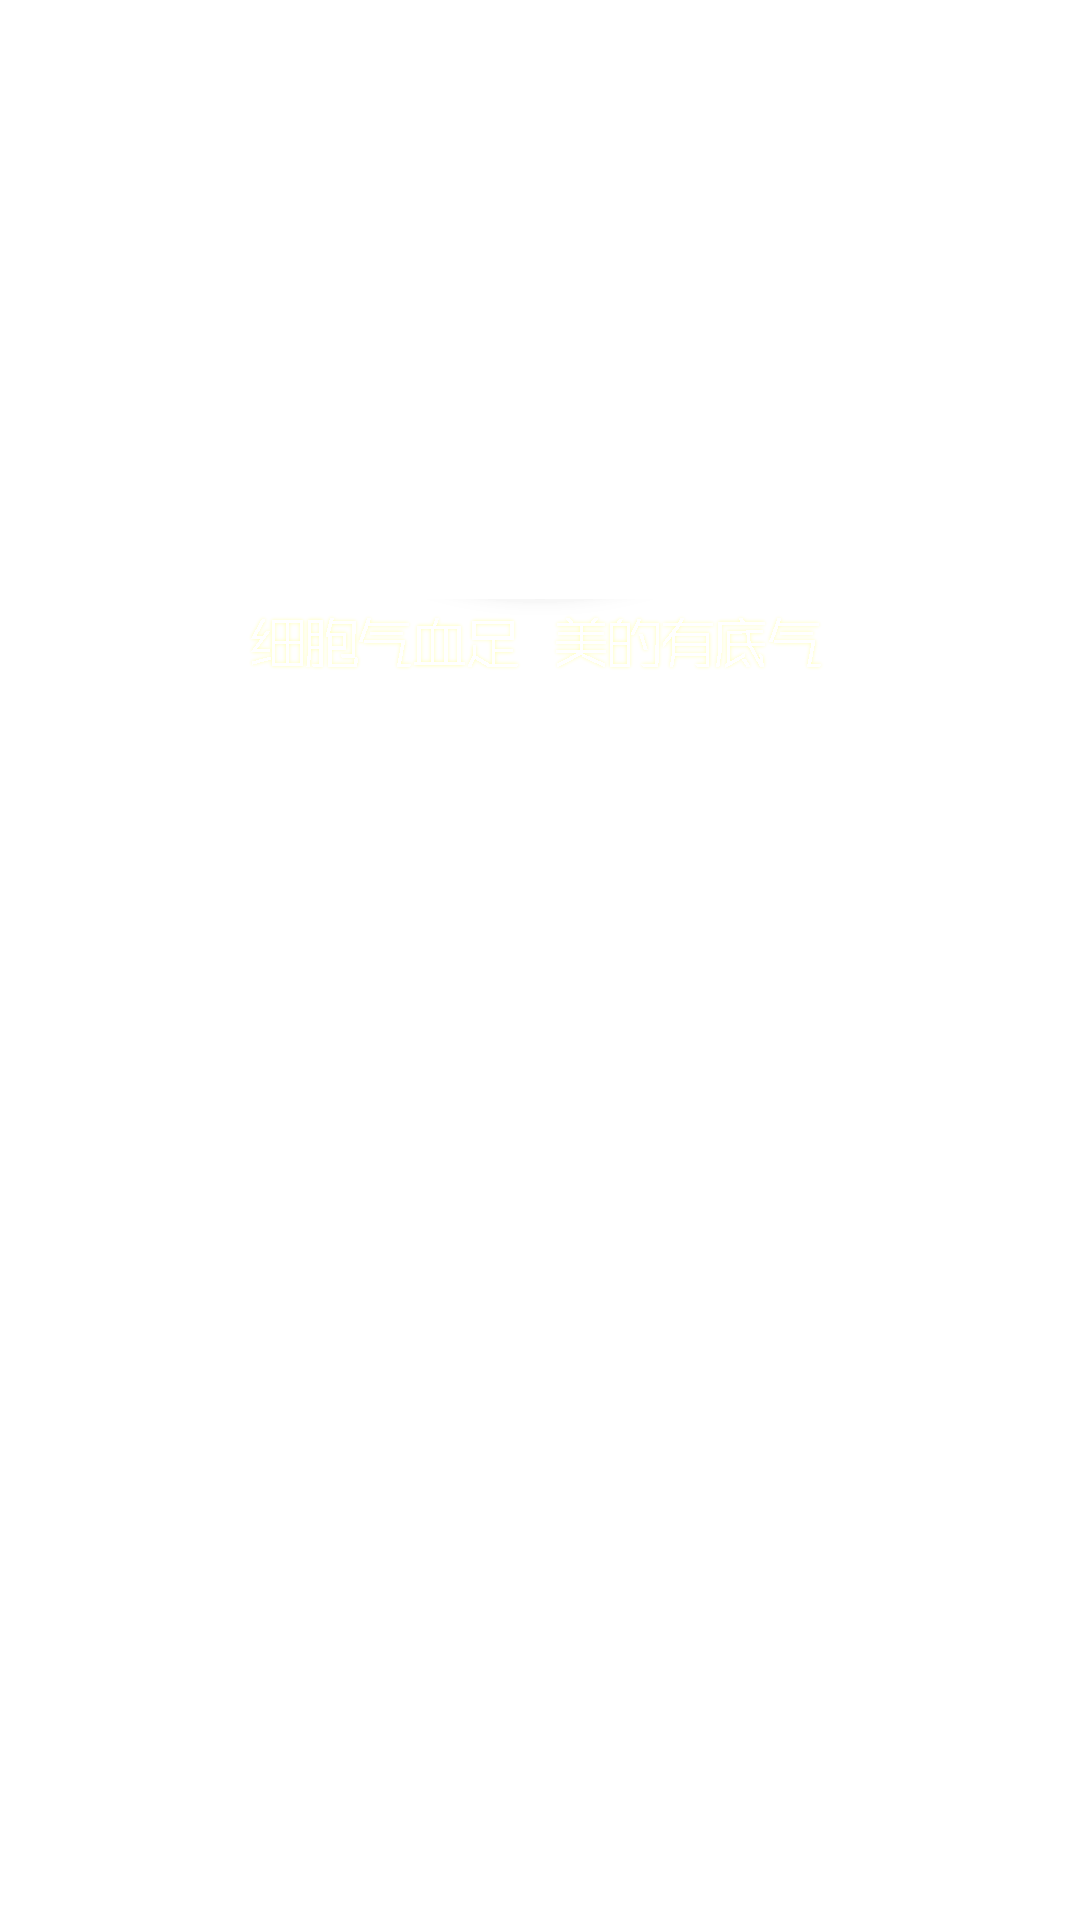
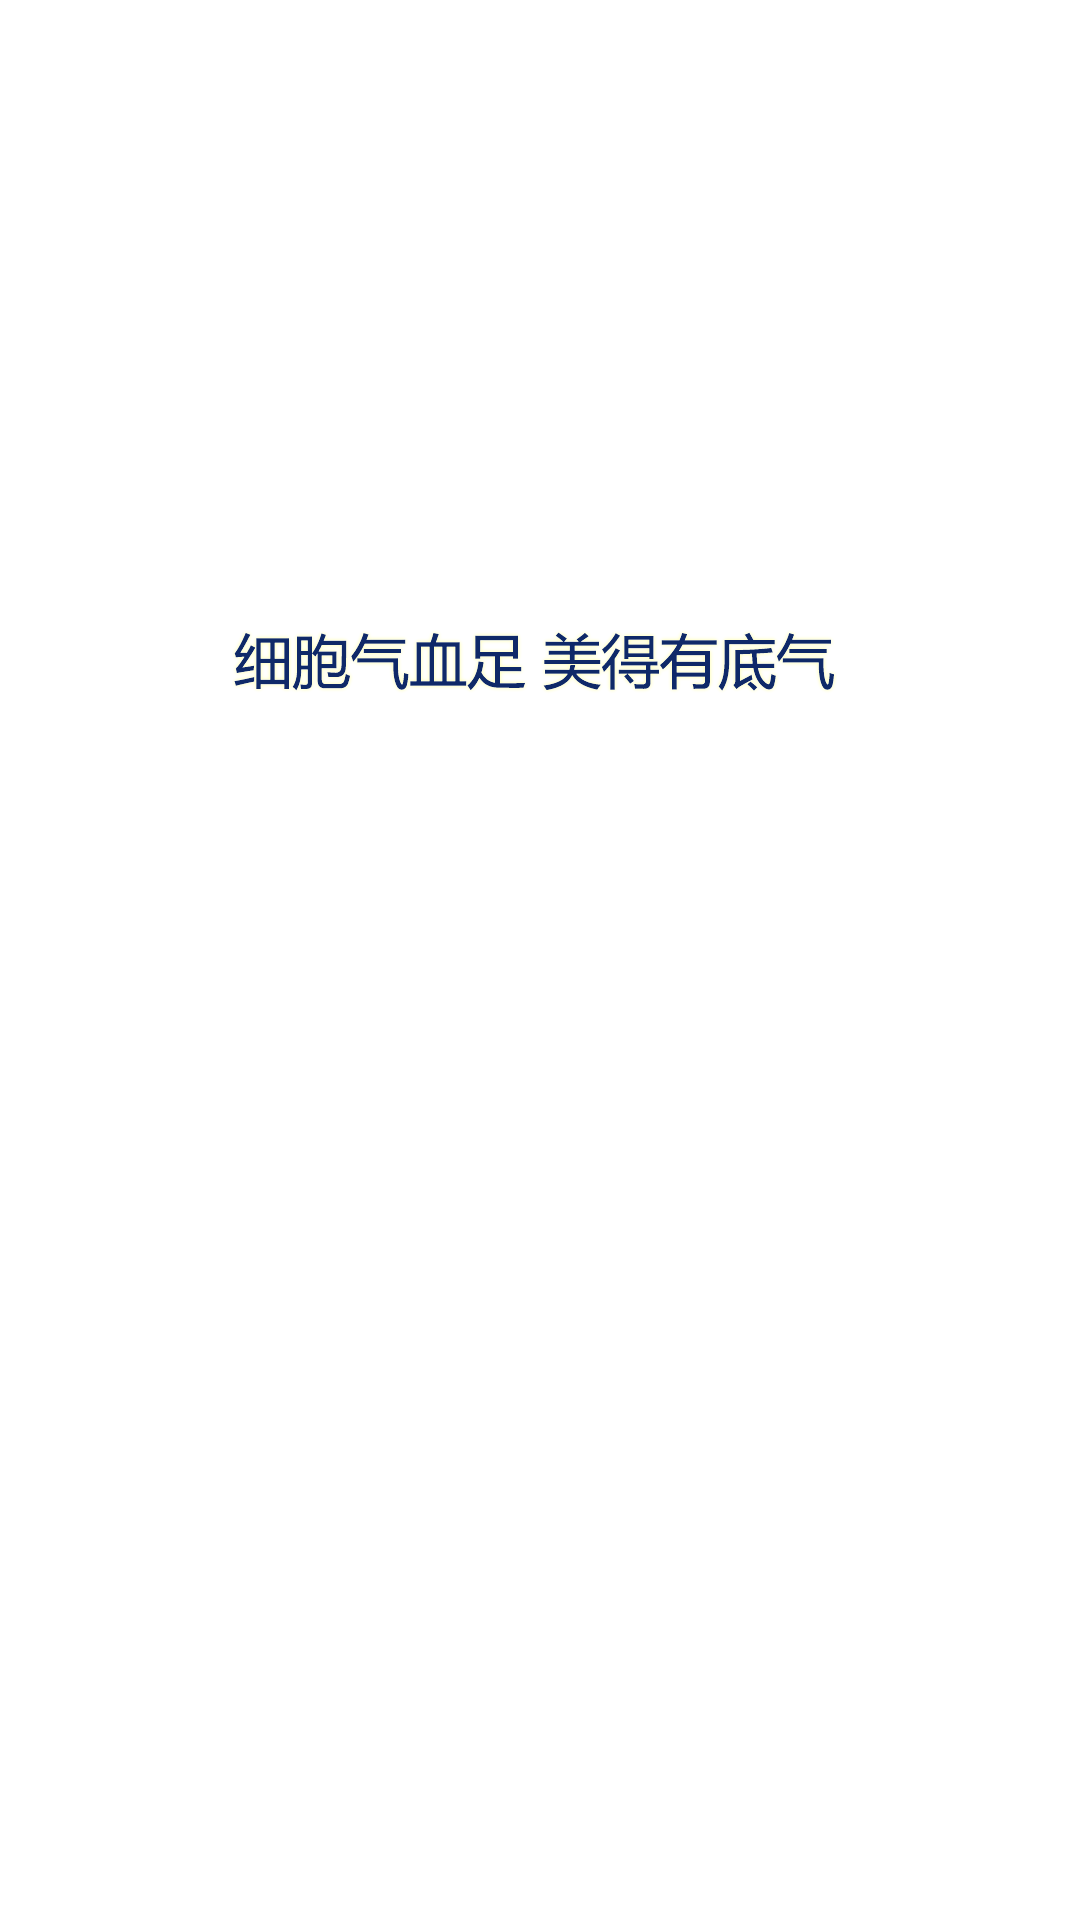
New end page @Tailand

Changed region(s): [[0.2139, 0.3125, 0.7639, 0.375]]

diff --git a/style/pages.less b/style/pages.less
@@ -296,6 +296,9 @@
   }
 }
 #end-page {
+  img.parallax-background{
+    background-image: url(../images/backgrounds/0.jpg);
+  }
   #logo {
     content: url(../images/logo.png);
   }
